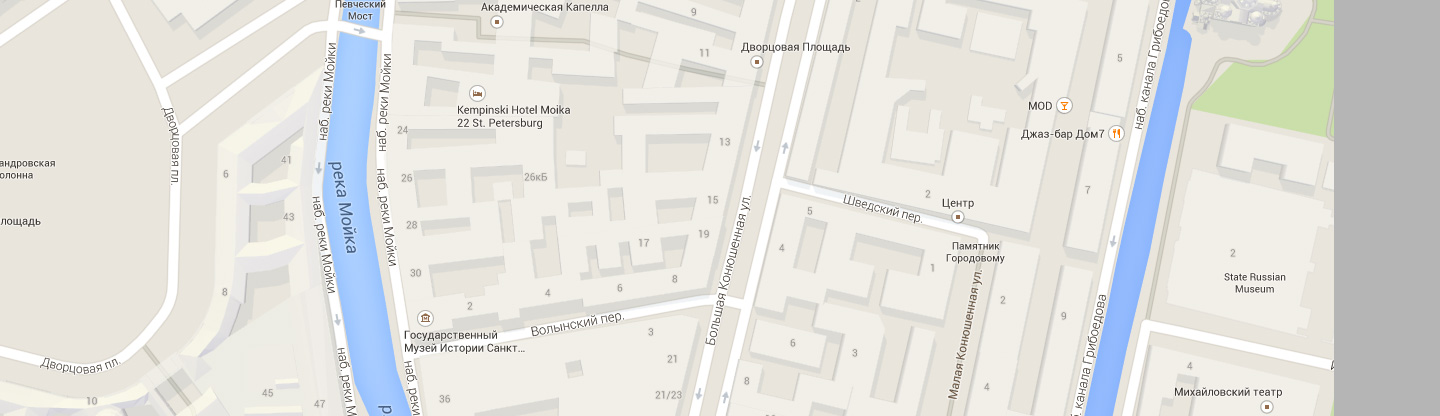
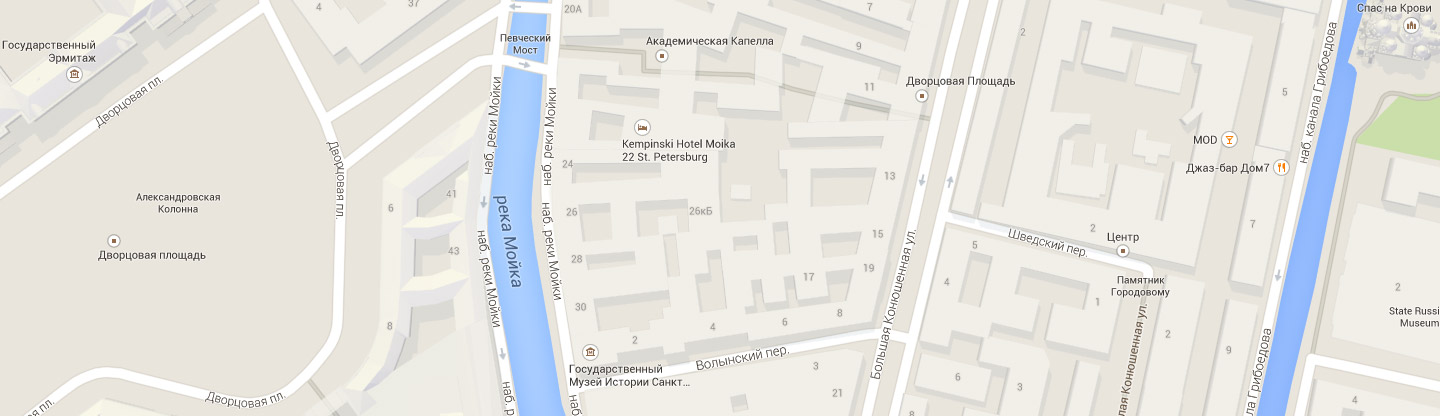
Добавка

diff --git a/css/style.css b/css/style.css
@@ -61,9 +61,11 @@ a {
 .user-navigation a:active {
     color: #a6a6a6;
 }
+
 .site-navigation-current {
-    border-bottom: solid 1px #fb565a;
+    border-bottom: solid 2px #fb565a;
 }
+
 .button {
     height: 50px;
     line-height: 18px;
@@ -74,6 +76,8 @@ a {
     border: none;
     text-transform: uppercase;
     background-color: #fb565a;
+    border-radius: 2px;
+    outline: none;
 }
 
 .button:hover,
@@ -84,6 +88,7 @@ a {
 .button:active {
     background-color: #d7373b;
     color: #e26c6e;
+    box-shadow: inset 0 3px 0 0 #c13135;
 }
 
 .slider-title h2 {
@@ -120,6 +125,7 @@ a {
 .service-item-app .button:active {
     color: #4dc491;
     background-color: #00aa62;
+    box-shadow: inset 0 3px 0 0 #009958;
 }
 
 .service-item-present .button {
@@ -134,6 +140,7 @@ a {
 .service-item-present .button:active {
     color: #edc265;
     background-color: #e5a722;
+    box-shadow: inset 0 3px 0 0 #ce961f;
 }
 
 .about-title {
@@ -159,6 +166,11 @@ a {
     text-transform: uppercase;
 }
 
+.statistics th {
+    line-height: 18px;
+    font-weight: 400px;
+}
+
 .statistics td {
     font-size: 45px;
     font-weight: 700;
@@ -182,6 +194,31 @@ a {
     opacity: 0.1;
 }
 
+.contacts {
+    width: 1440px;
+    height: 416px;
+    background-image: url("../img/map.jpg");
+    background-repeat: no-repeat;
+    background-size: auto auto;
+    background-color: #f1efe8;
+}
+
+.contacts::before {
+    content: "";
+    overflow: hidden;
+    display: block;
+}
+
+.adress {
+    width: 270px;
+    height: 251px;
+    padding-top: 57px;
+    padding-left: 50px;
+    margin-top: 54px;
+    margin-left: 140px;
+    background-color: #ffffff;
+}
+
 .adress h3 {
     font-size: 18px;
     line-height: 30px;
@@ -192,6 +229,15 @@ a {
 
 .adress p {
     line-height: 18px;
+}
+
+.map-marker {
+    position: relative;
+    top: -270px;
+    left: 819px;
+    width: 231px;
+    height: 190px;
+    background-image: url("../img/map-marker.png");
 }
 
 .footer-social h3 {
@@ -222,20 +268,33 @@ a {
     color: #000000;
 }
 
+.modal-writeus input {
+    width: 360px;
+    height: 50px;
+}
+
+.modal-writeus textarea {
+    width: 760px;
+    height: 120px;
+}
+
 .modal-writeus input,
 .modal-writeus textarea {
+    padding-left: 14px;
     outline: none;
-    opacity: 0.8;
+    opacity: 0.6;
 }
 
 .modal-writeus input:hover,
 .modal-writeus textarea:hover {
-    opacity: 1;
+    opacity: 0.8;
 }
 
 .modal-writeus input:focus,
 .modal-writeus textarea:focus {
-    border: solid 2px #000000;
+    outline: solid 2px #000000;
+    color: #444444;
+    opacity: 1;
 }
 
 .modal-writeus input:invalid {
@@ -262,6 +321,67 @@ a {
 
 .filter fieldset {
     border: none;
+}
+
+.selector-wrapper {
+    width: 260px;
+    height: 80px;
+    background-color: #eeeeee;
+    margin-bottom: 14px;
+}
+
+.price-selector-current-progress {
+    position: relative;
+    height: 2px;
+    width: 150px;
+    background-color: #00ca74;
+    top: 38px;
+    left: 30px;
+}
+
+.price-selector-bar {
+    position: relative;
+    height: 2px;
+    width: 69px;
+    background-color: #d7dcde;
+    top: 36px;
+    left: 168px;
+}
+
+.price-selector-setter {
+    position: relative;
+    width: 4px;
+    height: 4px;
+    border: 8px solid #ffffff;
+    border-radius: 50%;
+    background-color: #ababab;
+    cursor: pointer;
+    box-shadow: 0 2px 0 0 #cccdcd;
+}
+
+.price-selector-setter.min {
+    top: 25px;
+    left: 18px;
+}
+
+.price-selector-setter.max {
+    top: 5px;
+    left: 160px;
+}
+
+.price-selector label {
+    line-height: 22px;
+    text-transform: uppercase;
+}
+
+.price-field {
+    background-color: #eeeeee;
+    border: 0;
+    width: 80px;
+    height: 38px;
+    font: inherit;
+    color: inherit;
+    text-align: center;
 }
 
 .filter ul {
@@ -293,6 +413,7 @@ a {
 .filter-button:active {
     color: #959595;
     background-color: #d5d5d5;
+    box-shadow: inset 0 3px 0 0 #bfbfbf;
 }
 
 .filter-input:hover+label,
@@ -337,16 +458,18 @@ a {
     color: #000000;
 }
 
+.catalog-item-description {
+    width: 360px;
+    height: 231px;
+    text-align: center;
+    background-color: #eeeeee;
+}
+
 .catalog-item-title {
     font-size: 18px;
     line-height: 30px;
     color: #000000;
     text-transform: uppercase;
-}
-
-.catalog-item-description {
-    text-align: center;
-    background-color: #eeeeee;
 }
 
 .catalog-item-price .button:hover,
@@ -370,6 +493,7 @@ a {
 
 .pagination-item-current a {
     background-color: #ffffff;
+    border: solid 3px #eeeeee;
 }
 
 .pagination-item a:hover,
@@ -380,4 +504,5 @@ a {
 .pagination-item a:active {
     color: #959595;
     background-color: #d5d5d5;
+    box-shadow: inset 0 3px 0 0 #bfbfbf;
 }

diff --git a/catalog.html b/catalog.html
@@ -7,7 +7,6 @@
     <link href="css/style.css" rel="stylesheet">
     <title>Nёrds-Shop</title>
 </head>
-
 <body>
     <header class="main-header">
         <nav class="main-navigation">
@@ -34,13 +33,18 @@
             <form class="filter" method="get" action="https://echo.htmlacademy.ru">
                 <fieldset>
                     <legend class="filter-title">Стоймость:</legend>
-                    <div class="price-selector"></div>
-                    <label>От
-                        <input class="price-field" type="number" name="min-price" value="0">
-                    </label>
-                    <label>До
-                        <input class="price-field" type="number" name="min-price" value="15000">
-                    </label>
+                    <div class="price-selector">
+                        <div class="selector-wrapper">
+                        <div class="price-selector-current-progress"></div>
+                        <div class="price-selector-bar"></div>
+                        <div class="price-selector-setter min"></div>
+                        <div class="price-selector-setter max"></div>
+                        </div>
+                    <label for="min-price-field">От</label>
+                        <input class="price-field" type="text" name="min-price" value="0" id="min-price-field">
+                    <label for="max-price-field">До</label>
+                        <input class="price-field" type="text" name="max-price" value="15000" id="max-price-field">
+                    </div>
                 </fieldset>
                 <fieldset>
                     <legend class="filter-title">Сетка:</legend>

diff --git a/index.html b/index.html
@@ -143,6 +143,7 @@
             <p>тел. +7 (812) 275-75-75</p>
             <a class="button" href="#">Напишите нам</a>
         </div>
+        <div class="map"></div>
         <div class="map-marker"></div>
     </section>
     <footer class="main-footer">
